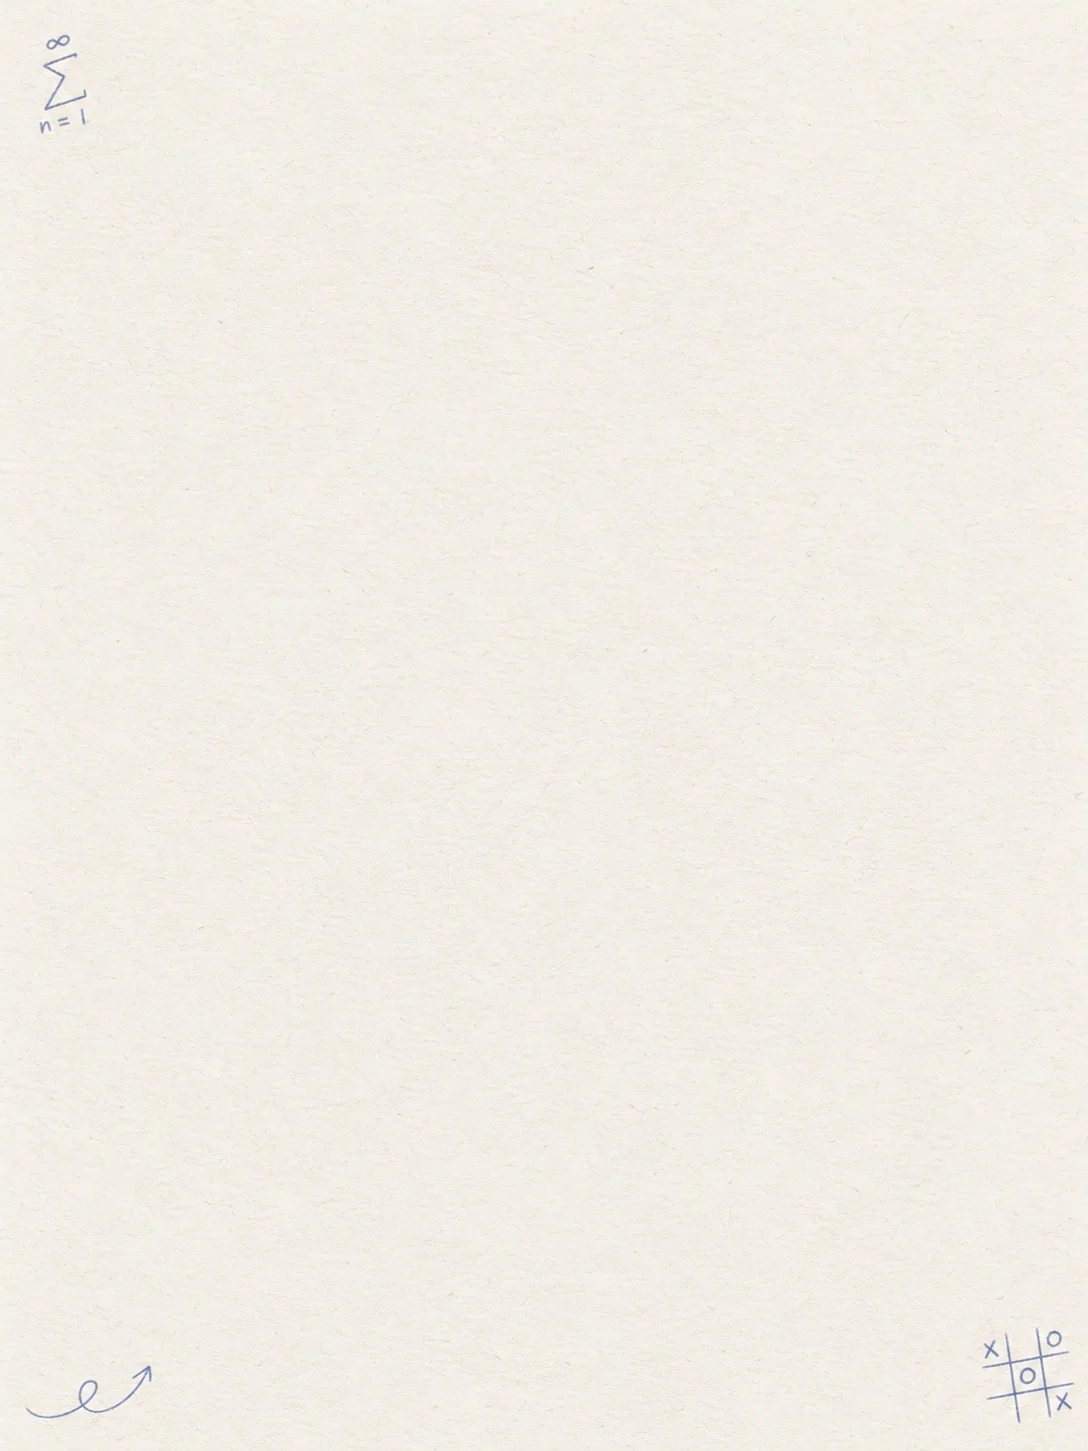
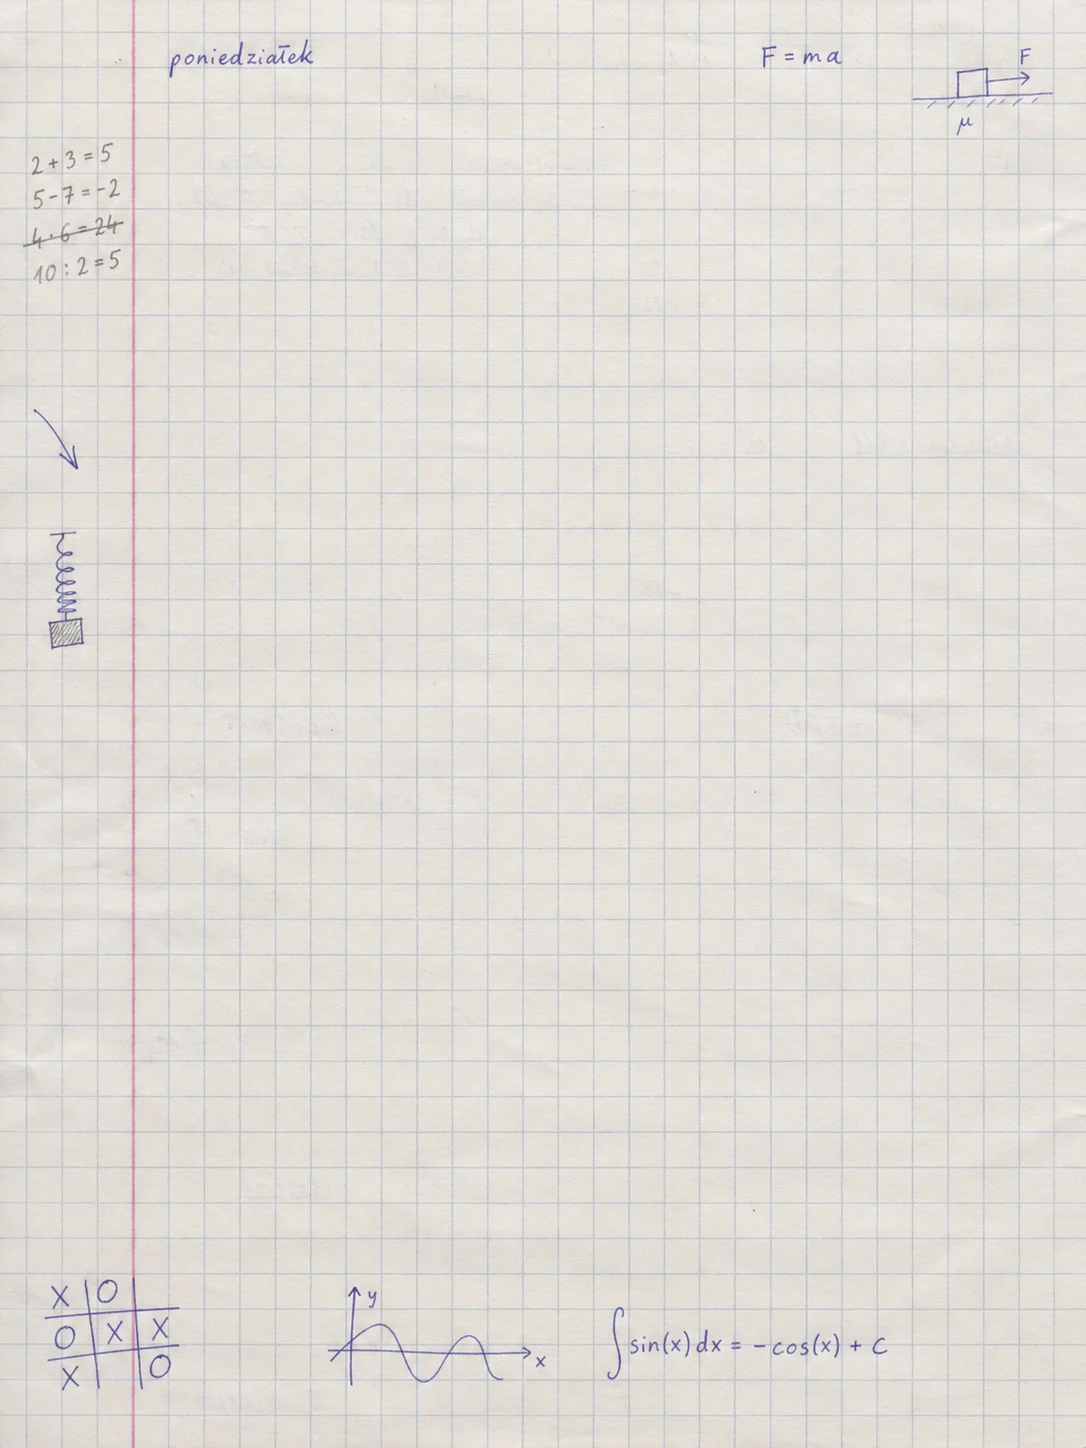
fix(landing): update paper artwork and mock handwriting font

diff --git a/apps/web/src/test-utils/setup.ts b/apps/web/src/test-utils/setup.ts
@@ -7,6 +7,10 @@ import { server } from "./mocks/server";
 
 process.env.NEXT_PUBLIC_API_URL = "http://test.local";
 
+vi.mock("next/font/google", () => ({
+  Caveat: () => ({ className: "font-caveat" }),
+}));
+
 vi.mock("next/navigation", () => ({
   useRouter: () => ({
     push: vi.fn(),
